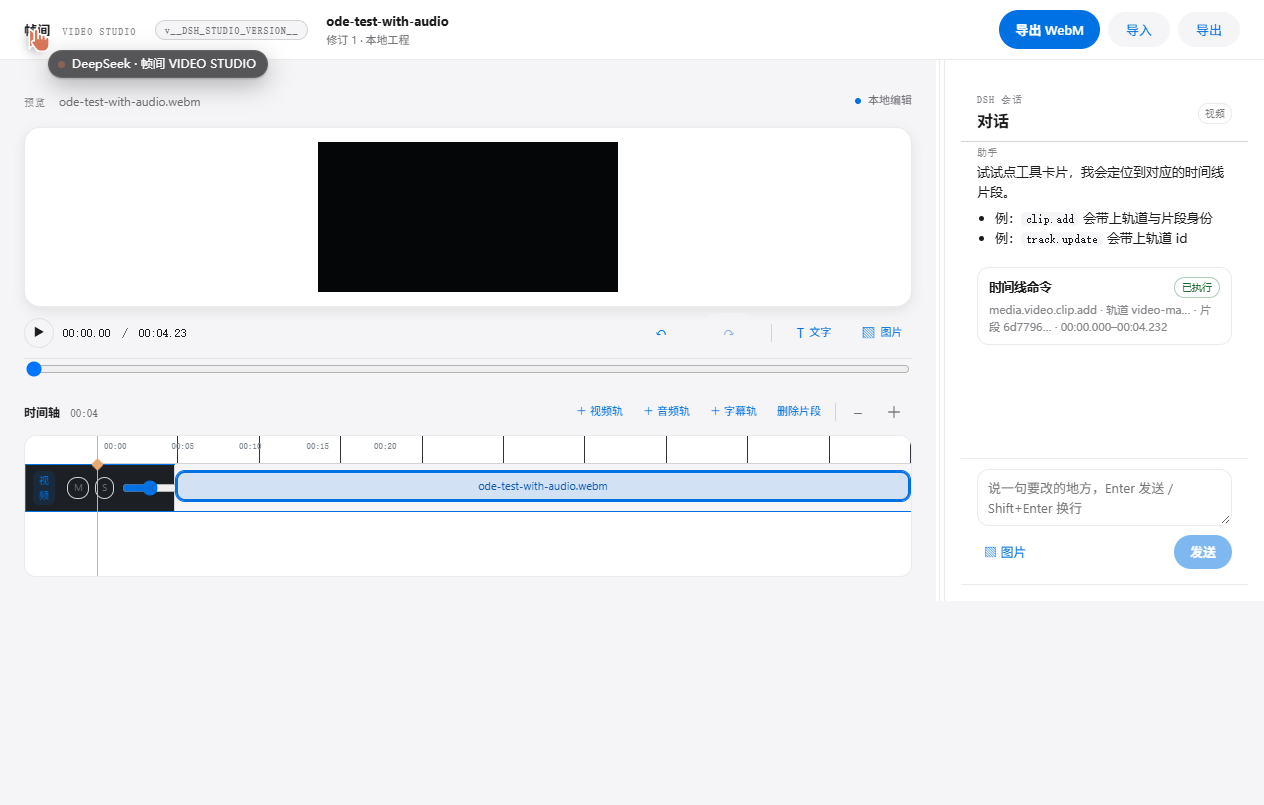
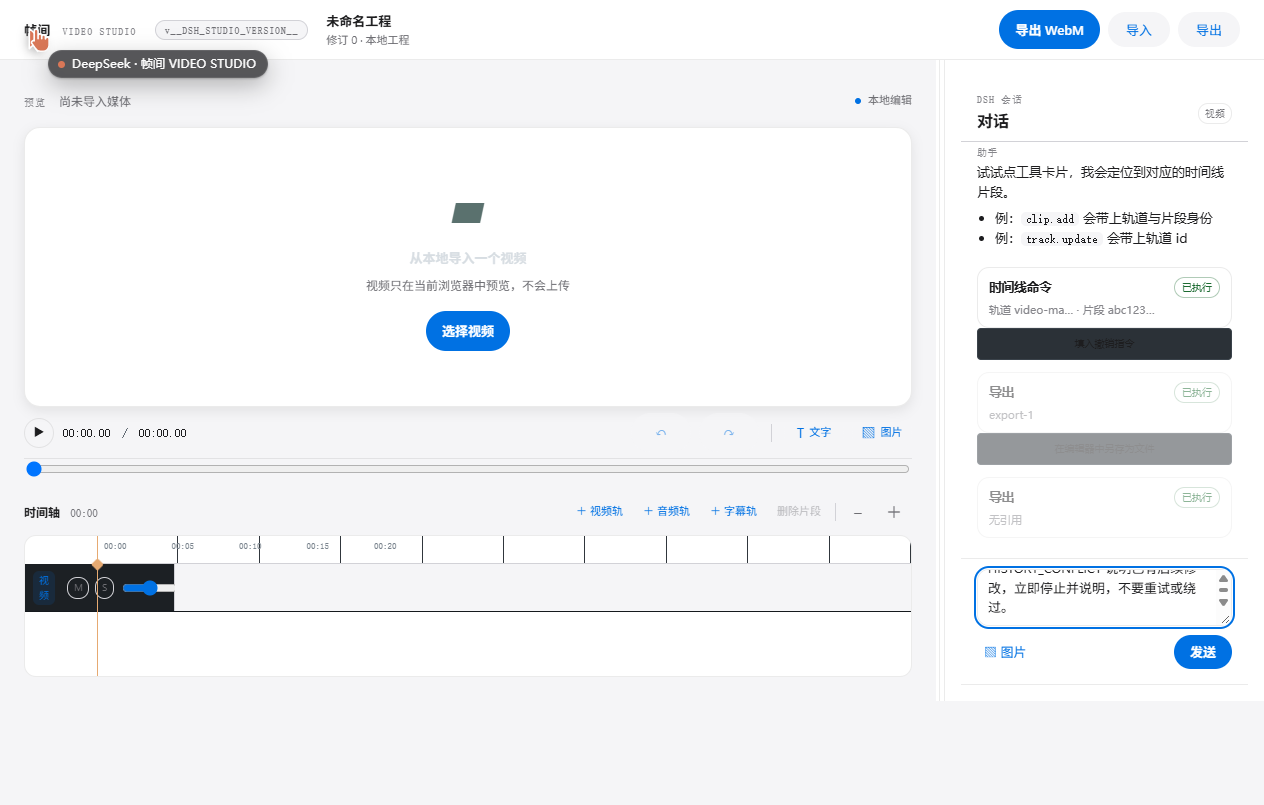
chore(video): vendor dialog-model@3，撤销/导出按钮改用计划自带负载
- 整份替换 vendor：13,610 B / sha256 46dd2a92… / 来源 dsh-image-studio@9937208 / 版本 dialog-model@3
- fill-undo 直接用 action.prompt（不再自己拼文案、不回查原始行）；download-export 用 action.export
- 新增三条行为守卫：合法凭据 → undo 三项逐字相等且 prompt 含 targetCommandId 与 HISTORY_CONFLICT；四类非法凭据 → 整个动作不出现；export 引用透传、缺 exportId → 无按钮
- 渲染自检钩子仅在 ?debug 暴露（__dshChat），用于在没有真实命令凭据时验证计划字段真的进 DOM
- 页面读数：撤销按钮 disabled=false、点击只把整句指令填进输入框（用户消息 0 条新增）；导出按钮带 data-export-id、无 exportId 时无按钮
- 全包 145/145

diff --git a/plugin/dsh-media-video/public/video/video.js b/plugin/dsh-media-video/public/video/video.js
@@ -466,6 +466,9 @@ const chat = mountChat({
   ],
 });
 
+// 渲染自检钩子：仅 ?debug 时暴露，用于在没有真实命令凭据时验证"计划字段真的进 DOM"。
+if (new URLSearchParams(location.search).has('debug')) globalThis.__dshChat = chat;
+
 function locateClipFromCard(payload = {}) {
   const ids = payload.objectIds?.length ? payload.objectIds : [payload.clipId].filter(Boolean);
   const target = ids.map(id => allClips().find(item => item.id === id)).find(Boolean) || null;
@@ -503,9 +506,8 @@ globalThis.__dshChatTool = (command, after, meta = {}) => {
     role: 'tool',
     card: { name: '时间线命令', status: 'applied', revision: after?.revision ?? null, line: parts.join(' · ') },
     locate: clipId ? { objectIds: [clipId], kind: 'clip' } : trackId ? { objectIds: [trackId], kind: 'track' } : null,
-    undoPrompt: undo
-      ? `撤销这一步：commandId=${undo.commandId}、appliedRevision=${undo.appliedRevision}、afterDigest=${undo.afterDigest}。仅栈顶可撤；已有后续修改会返回 HISTORY_CONFLICT。`
-      : '',
+    // 撤销凭据交给共享模型生成整句 prompt；渲染层不拼文案（dialog-model@3）。
+    undo,
   }]);
 };
 
